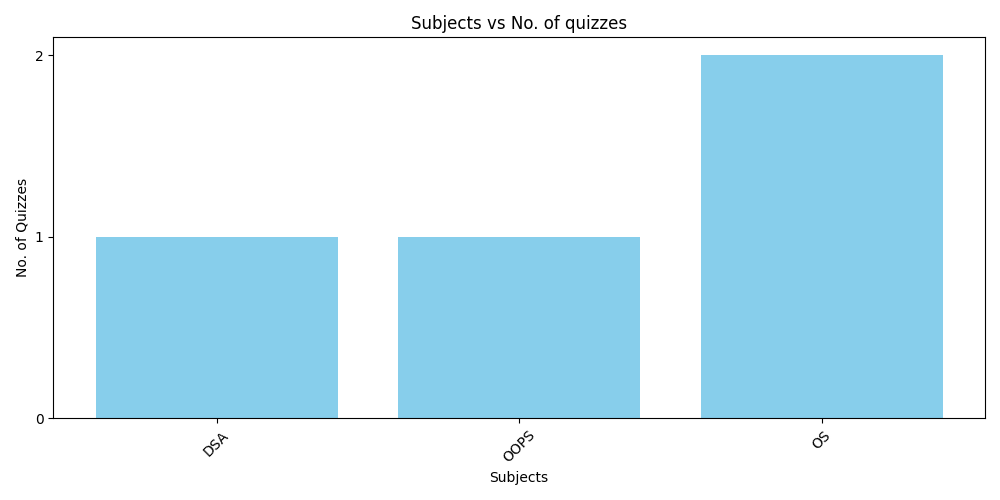
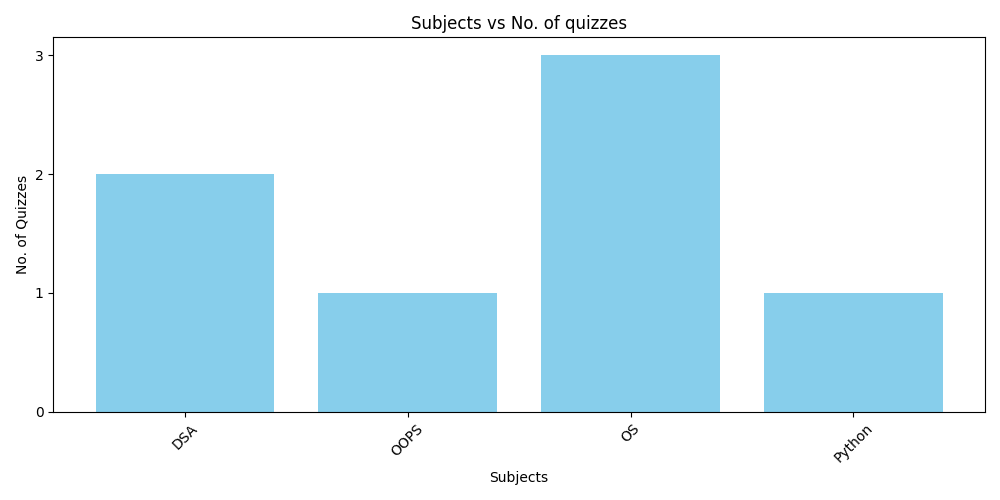
Add all changes

diff --git a/templates/manage_quiz.html b/templates/manage_quiz.html
@@ -2,6 +2,64 @@
 
 {% block content %}
 <div class="container mt-5 pt-5" >
+  <h2 class="text-center ">Find a Quiz</h2>
+    <form method="POST">
+
+        <div class="mb-3">
+            <label for="chapter" class="form-label"><h5>Select Chapter</h5></label>
+            <select name="chapter" id="chapter" class="form-control" onchange="this.form.submit()">
+                <option value="">-- Choose Chapter --</option>
+                {% for chapter in chapters %}
+                    <option value="{{ chapter.id }}" {% if chapter.id == selected_chapter_id %} selected {% endif %}>
+                      {{ chapter.id }} : {{ chapter.name }}
+                    </option>
+                {% endfor %}
+            </select>
+        </div>
+    </form>
+    <div class="mt-5">
+    {% if quizzes %}
+        <h5>Available Quizzes</h5>
+        <div class="table-responsive">
+          <table class="table table-hover table-bordered">
+              <thead class="table-info text-center">
+                <tr>
+                    
+                    <th style="width:5%">ID</th>
+                    <th style="width:10%">Chapter ID</th>
+                    <th style="width:42%">Remarks</th>
+                    <th style="width:10%">Quiz Date</th>
+                    <th style="width:10%">Time Duration</th>
+                    <th style="width:13%">Manage Question</th>
+                    <th style="width:10%">Action</th>
+                </tr>
+              </thead>
+              <tbody class="text-center">
+                {%for quiz in quizzes%}
+                <tr>
+                  <td>{{quiz.id}}</td>
+                  <td>{{quiz.chapter_id}}</td>
+                  <td>{{quiz.remarks}}</td>
+                  <td>{{quiz.quiz_date}}</td>
+                  <td>{{quiz.time_dur}}</td>
+                    <td><a href="{{url_for('manage_question',quiz_id=quiz.id)}}"class="btn btn-outline-info btn-sm w-100" style="min-width: 130px;">Manage Questions</a></td>
+                    <td>
+                      <div class="d-flex justify-content-center align-items-center gap-2">
+                    <a href="{{url_for('edit_quiz',quiz_id=quiz.id)}}"class="btn btn-outline-warning btn-sm " style="min-width: 70px;">Edit</a>
+                    <form action="{{url_for('delete_quiz',quiz_id=quiz.id)}}" method="post" style="margin:0;">
+                        <button class="btn btn-outline-danger btn-sm" type="submit" style="min-width: 70px;">Delete</button>
+                    </form>
+                  </div>
+                    </td>
+                </tr>
+                {%endfor%}
+              </tbody>
+            </table>
+          </div>
+    {% elif selected_chapter_id %}
+        <p class="text-muted">No quizzes available</p>
+    {% endif %}
+</div>
 <div class="mt-5">
   <h2 class="text-center ">Manage Quiz</h2>
   <br>
@@ -20,7 +78,7 @@
         </tr>
       </thead>
       <tbody class="text-center">
-        {%for quiz in quizzes%}
+        {%for quiz in quiz%}
         <tr>
           <td>{{quiz.id}}</td>
           <td>{{quiz.chapter_id}}</td>

diff --git a/templates/search_user.html b/templates/search_user.html
@@ -1,11 +1,3 @@
-
-    
-    
-    
-     
-
-
-
 {% include 'admin_sidebar.html'%}
 <div class="d-flex flex-column justify-content-center align-items-center vh-100">
     <div class="container">
@@ -14,11 +6,17 @@
                 <div class="card shadow-lg border-0 rounded">
                     <div class="card-body">
                     <h2 class="text-center mb-4 text-primary">User Details</h2>
-                    <h5><strong>ID : </strong>{{user.id}}</h5>
-                    <h5><strong>Email : </strong>{{user.email}}</h5>
-                    <h5><strong>Username : </strong>{{user.username}}</h5>
-                    <h5><strong>Qualification : </strong>{{user.qualification}}</h5> 
-                    <h5><strong>D.O.B : </strong>{{user.date_of_birth}}</h5>  
+                    <p><strong>ID : </strong>{{user.id}}</p>
+                    <p><strong>Email : </strong>{{user.email}}</p>
+                    <p><strong>Username : </strong>{{user.username}}</p>
+                    <p><strong>Qualification : </strong>{{user.qualification}}</p> 
+                    <p><strong>D.O.B : </strong>{{user.date_of_birth}}</p> 
+                    {% if user.id!=1 %}
+                        <a href="{{url_for('quiz_history',user_id=user.id)}}"class="btn btn-outline-info btn-sm w-100 mb-2" style="min-width: 130px;">Quiz History</a>
+                        <form action="{{url_for('delete_user',id=user.id)}}" method="post" >
+                            <button class="btn btn-outline-danger btn-sm w-100" type="submit" style="min-width: 130px;">Delete</button>
+                        </form>
+                    {% endif %}
                     </div>              
                 </div>
             </div>

diff --git a/templates/search_quiz.html b/templates/search_quiz.html
@@ -6,12 +6,17 @@
             <div class="col-md-4">
                 <div class="card shadow-lg border-0 rounded">
                     <div class="card-body">
-                    <h2 class="text-center mb-4 text-primary">Subject Details</h2>
-                    <h5><strong>ID : </strong>{{quiz.id}}</h5>
-                    <h5><strong>Chapter : </strong>{{quiz.chapter_id}}</h5>
-                    <h5><strong>Remarks : </strong>{{quiz.remarks}}</h5>
-                    <h5><strong>Quiz Date : </strong>{{quiz.quiz_date}}</h5> 
-                    <h5><strong>Time Duration : </strong>{{quiz.time_dur}}</h5>
+                    <h2 class="text-center mb-4 text-primary">Quiz Details</h2>
+                    <p><strong>ID : </strong>{{quiz.id}}</p>
+                    <p><strong>Chapter : </strong>{{quiz.chapter_id}}</p>
+                    <p><strong>Remarks : </strong>{{quiz.remarks}}</p>
+                    <p><strong>Quiz Date : </strong>{{quiz.quiz_date}}</p> 
+                    <p><strong>Time Duration : </strong>{{quiz.time_dur}}</p>
+                    <a href="{{url_for('manage_question',quiz_id=quiz.id)}}"class="btn btn-outline-info btn-sm w-100 mb-2" style="min-width: 130px;">Manage Questions</a>
+                    <a href="{{url_for('edit_quiz',quiz_id=quiz.id)}}"class="btn btn-outline-warning btn-sm w-100 mb-2" style="min-width: 130px;">Edit</a>
+                    <form action="{{url_for('delete_quiz',quiz_id=quiz.id)}}" method="post" >
+                        <button class="btn btn-outline-danger btn-sm w-100" type="submit" style="min-width: 130px;">Delete</button>
+                    </form>
                     </div>              
                 </div>
             </div>

diff --git a/templates/user_search_quiz.html b/templates/user_search_quiz.html
@@ -1,3 +1,4 @@
+
 {% include 'student_sidebar.html'%}
 <div class="d-flex flex-column justify-content-center align-items-center vh-100">
     <div class="container">
@@ -5,13 +6,14 @@
             <div class="col-md-4">
                 <div class="card shadow-lg border-0 rounded">
                     <div class="card-body">
-                    <h2 class="text-center mb-4 text-primary">Subject Details</h2>
-                    <h5><strong>ID : </strong>{{quiz.id}}</h5>
-                    <h5><strong>Chapter : </strong>{{quiz.chapter_id}}</h5>
-                    <h5><strong>Remarks : </strong>{{quiz.remarks}}</h5>
-                    <h5><strong>Quiz Date : </strong>{{quiz.quiz_date}}</h5> 
-                    <h5><strong>Time Duration : </strong>{{quiz.time_dur}}</h5>
-                    </div>              
+                    <h2 class="text-center mb-4 text-primary">Quiz Details</h2>
+                    <p><strong>ID : </strong>{{quiz.id}}</p>
+                    <p><strong>Chapter : </strong>{{quiz.chapter_id}}</p>
+                    <p><strong>Remarks : </strong>{{quiz.remarks}}</p>
+                    <p><strong>Quiz Date : </strong>{{quiz.quiz_date}}</p> 
+                    <p><strong>Time Duration : </strong>{{quiz.time_dur}}</p>
+                    
+                    </div>
                 </div>
             </div>
         </div>

diff --git a/templates/search_subject.html b/templates/search_subject.html
@@ -7,9 +7,14 @@
                 <div class="card shadow-lg border-0 rounded">
                     <div class="card-body">
                     <h2 class="text-center mb-4 text-primary">Subject Details</h2>
-                    <h5><strong>ID : </strong>{{subject.id}}</h5>
-                    <h5><strong>Name : </strong> {{subject.name}}</h5>
-                    <h5><strong>Description : </strong>{{subject.description}}</h5>
+                    <p><strong>ID : </strong>{{subject.id}}</p>
+                    <p><strong>Name : </strong> {{subject.name}}</p>
+                    <p><strong>Description : </strong>{{subject.description}}</p>
+                    <a href="{{url_for('manage_chapter',subject_id=subject.id)}}"class="btn btn-outline-info btn-sm w-100 mb-2" style="min-width: 130px;">Manage Chapter</a>
+                    <a href="{{url_for('edit_subject',subject_id=subject.id)}}"class="btn btn-outline-warning btn-sm w-100 mb-2" style="min-width: 130px;">Edit</a>
+                    <form action="{{url_for('delete_subject',subject_id=subject.id)}}" method="post" >
+                        <button class="btn btn-outline-danger btn-sm w-100" type="submit" style="min-width: 130px;">Delete</button>
+                    </form>
                     </div>              
                 </div>
             </div>

diff --git a/templates/admin_dashboard.html b/templates/admin_dashboard.html
@@ -24,12 +24,12 @@
             <td>{{subject.description}}</td>
             <td><a href="{{url_for('manage_chapter',subject_id=subject.id)}}"class="btn btn-outline-info btn-sm w-100" style="min-width: 130px;">Manage Chapter</a></td>
             <td>
-              <div class="d-flex justify-content-center align-items-center gap-2">
+            <div class="d-flex justify-content-center align-items-center gap-2">
             <a href="{{url_for('edit_subject',subject_id=subject.id)}}"class="btn btn-outline-warning btn-sm " style="min-width: 70px;">Edit</a>
             <form action="{{url_for('delete_subject',subject_id=subject.id)}}" method="post" style="margin:0;">
                 <button class="btn btn-outline-danger btn-sm" type="submit" style="min-width: 70px;">Delete</button>
             </form>
-          </div>
+            </div>
             </td>
         </tr>
         {%endfor%}

diff --git a/templates/search_invalid.html b/templates/search_invalid.html
@@ -1,16 +1,12 @@
 
-
-{% include 'student_sidebar.html'%}
+{% include 'admin_sidebar.html'%}
 <div class="d-flex flex-column justify-content-center align-items-center vh-100">
     <div class="container">
         <div class="row justify-content-center">
             <div class="col-md-4">
                 <div class="card shadow-lg border-0 rounded">
                     <div class="card-body">
-                    <h2 class="text-center mb-4 text-primary">Chapter Details</h2>
-                    <p><strong>ID : </strong>{{chapter.id}}</p>
-                    <p><strong>Name : </strong> {{chapter.name}}</p>
-                    <p><strong>Description : </strong>{{chapter.description}}</p>
+                    <h2 class="text-center mb-4 text-primary">Not Found..</h2>
                     </div>              
                 </div>
             </div>

diff --git a/templates/user_search_invalid.html b/templates/user_search_invalid.html
@@ -1,5 +1,3 @@
-
-
 {% include 'student_sidebar.html'%}
 <div class="d-flex flex-column justify-content-center align-items-center vh-100">
     <div class="container">
@@ -7,10 +5,7 @@
             <div class="col-md-4">
                 <div class="card shadow-lg border-0 rounded">
                     <div class="card-body">
-                    <h2 class="text-center mb-4 text-primary">Chapter Details</h2>
-                    <p><strong>ID : </strong>{{chapter.id}}</p>
-                    <p><strong>Name : </strong> {{chapter.name}}</p>
-                    <p><strong>Description : </strong>{{chapter.description}}</p>
+                    <h2 class="text-center mb-4 text-primary">Not Found..</h2>
                     </div>              
                 </div>
             </div>

diff --git a/templates/user_search_subject.html b/templates/user_search_subject.html
@@ -6,12 +6,13 @@
                 <div class="card shadow-lg border-0 rounded">
                     <div class="card-body">
                     <h2 class="text-center mb-4 text-primary">Subject Details</h2>
-                    <h5><strong>ID : </strong>{{subject.id}}</h5>
-                    <h5><strong>Name : </strong> {{subject.name}}</h5>
-                    <h5><strong>Description : </strong>{{subject.description}}</h5>
+                    <p><strong>ID : </strong>{{subject.id}}</p>
+                    <p><strong>Name : </strong> {{subject.name}}</p>
+                    <p><strong>Description : </strong>{{subject.description}}</p>
                     </div>              
                 </div>
             </div>
         </div>
     </div>
 </div>
+

diff --git a/templates/student_summary.html b/templates/student_summary.html
@@ -6,7 +6,7 @@
 
     {% if img_path1 %}
     <div class="text-center mt-4">
-        <img src="{{img_path1}}" alt="Summary Chart1" class="img-fluid rounded shadow-sm borde">
+        <img src="{{img_path1}}" alt="Summary Chart1" class="img-fluid rounded shadow-sm border">
     </div>
     {% else %}
     <p class="text-center text-muted">No quiz data available.</p>
@@ -14,7 +14,7 @@
     
     {% if img_path2 %}
     <div class="text-center mt-4">
-        <img src="{{img_path2}}" alt="Summary Chart2" class="img-fluid rounded shadow-sm borde">
+        <img src="{{img_path2}}" alt="Summary Chart2" class="img-fluid rounded shadow-sm border">
     </div>
     {% else %}
     <p class="text-center text-muted">No quiz data available.</p>

diff --git a/templates/view_detail.html b/templates/view_detail.html
@@ -10,11 +10,11 @@
       <div class="card shadow-lg border-0 rounded">
         <div class="card-body">
         
-    <h5>ID : {{score.quiz_id}}</h5>
-    <h5>Subject : {{score.quiz.chapter.subject_id}}</h5>
-    <h5>Chapter : {{score.quiz.chapter_id}}</h5>
-    <h5>Quiz Time : {{score.attempt_timing}}</h5>
-    <h5>Score : {{score.tot_score}}</h5>
+        <p><strong>ID : </strong> {{score.quiz_id}}</p>
+        <p><strong>Subject : </strong>{{score.quiz.chapter.subject_id}}</p>
+        <p><strong>Chapter : </strong>{{score.quiz.chapter_id}}</p>
+        <p><strong>Quiz Time : </strong>{{score.attempt_timing}}</p>
+        <p><strong>Score : </strong>{{score.tot_score}}</p>
         </div>
       </div>
     </div>

diff --git a/templates/view_detail_user.html b/templates/view_detail_user.html
@@ -10,11 +10,11 @@
       <div class="card shadow-lg border-0 rounded">
         <div class="card-body">
         
-    <h5>ID : {{score.quiz_id}}</h5>
-    <h5>Subject : {{score.quiz.chapter.subject_id}}</h5>
-    <h5>Chapter : {{score.quiz.chapter_id}}</h5>
-    <h5>Quiz Time : {{score.attempt_timing}}</h5>
-    <h5>Score : {{score.tot_score}}</h5>
+    <p>ID : {{score.quiz_id}}</p>
+    <p>Subject : {{score.quiz.chapter.subject_id}}</p>
+    <p>Chapter : {{score.quiz.chapter_id}}</p>
+    <p>Quiz Time : {{score.attempt_timing}}</p>
+    <p>Score : {{score.tot_score}}</p>
         </div>
       </div>
     </div>
